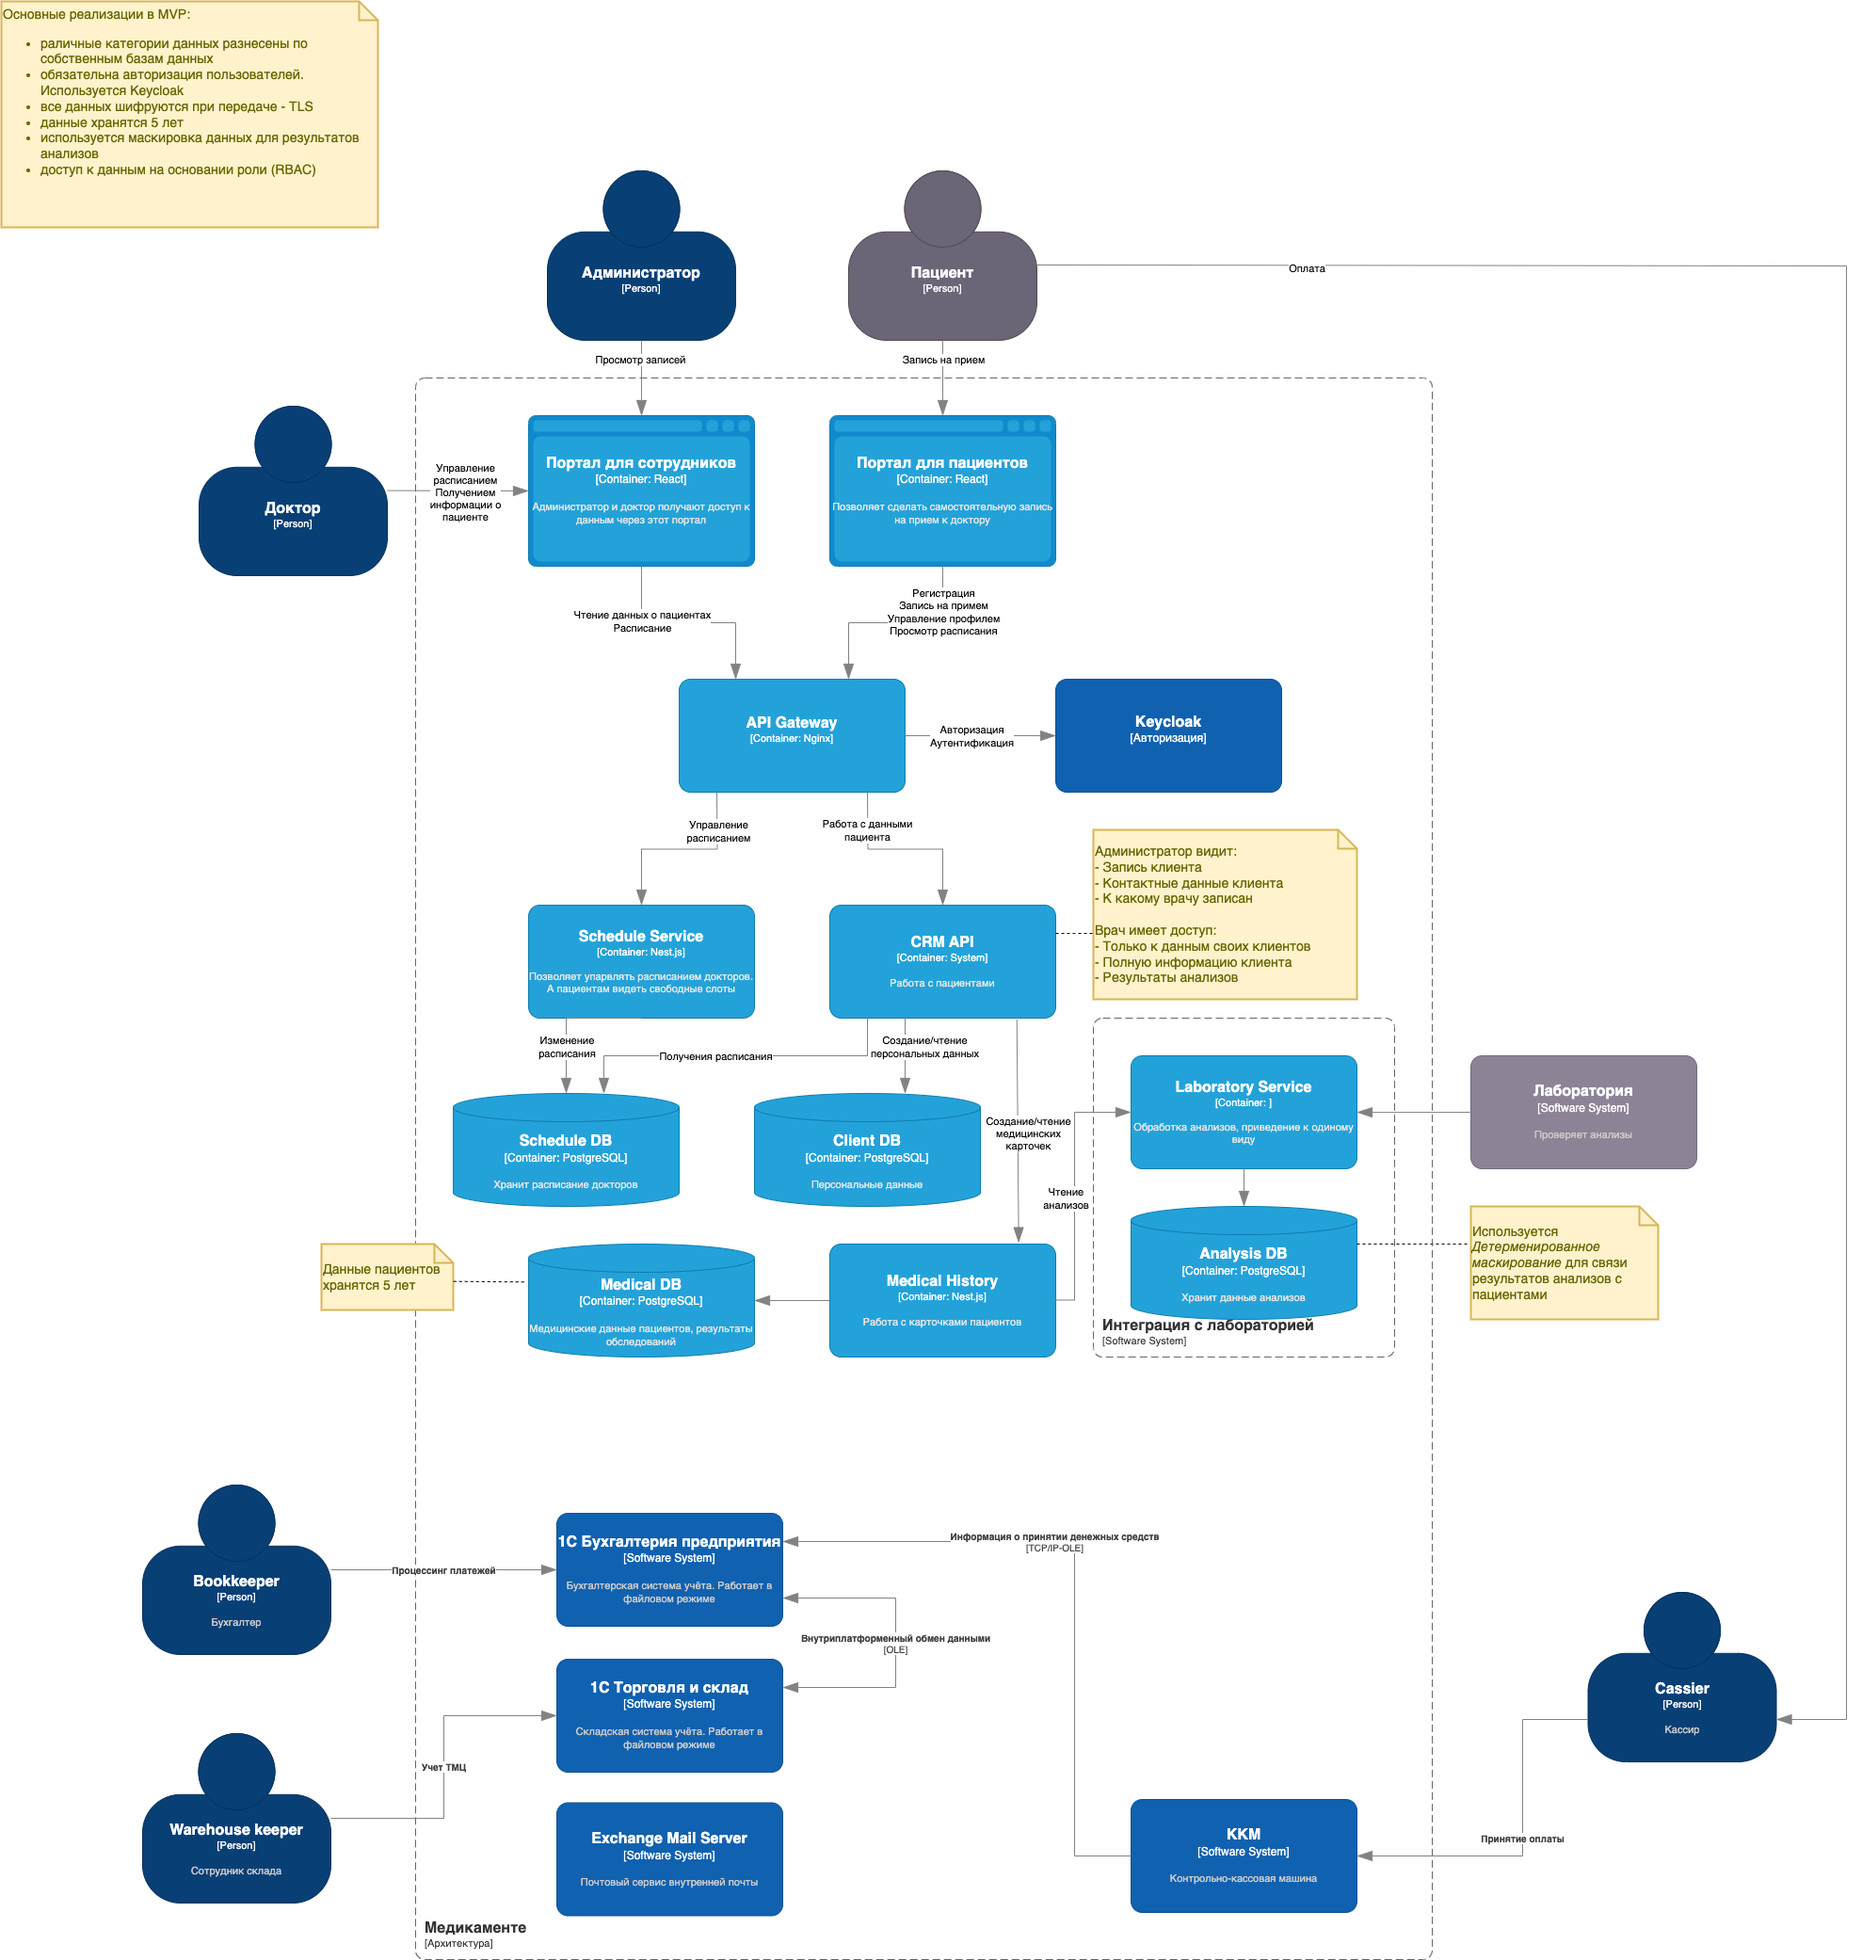
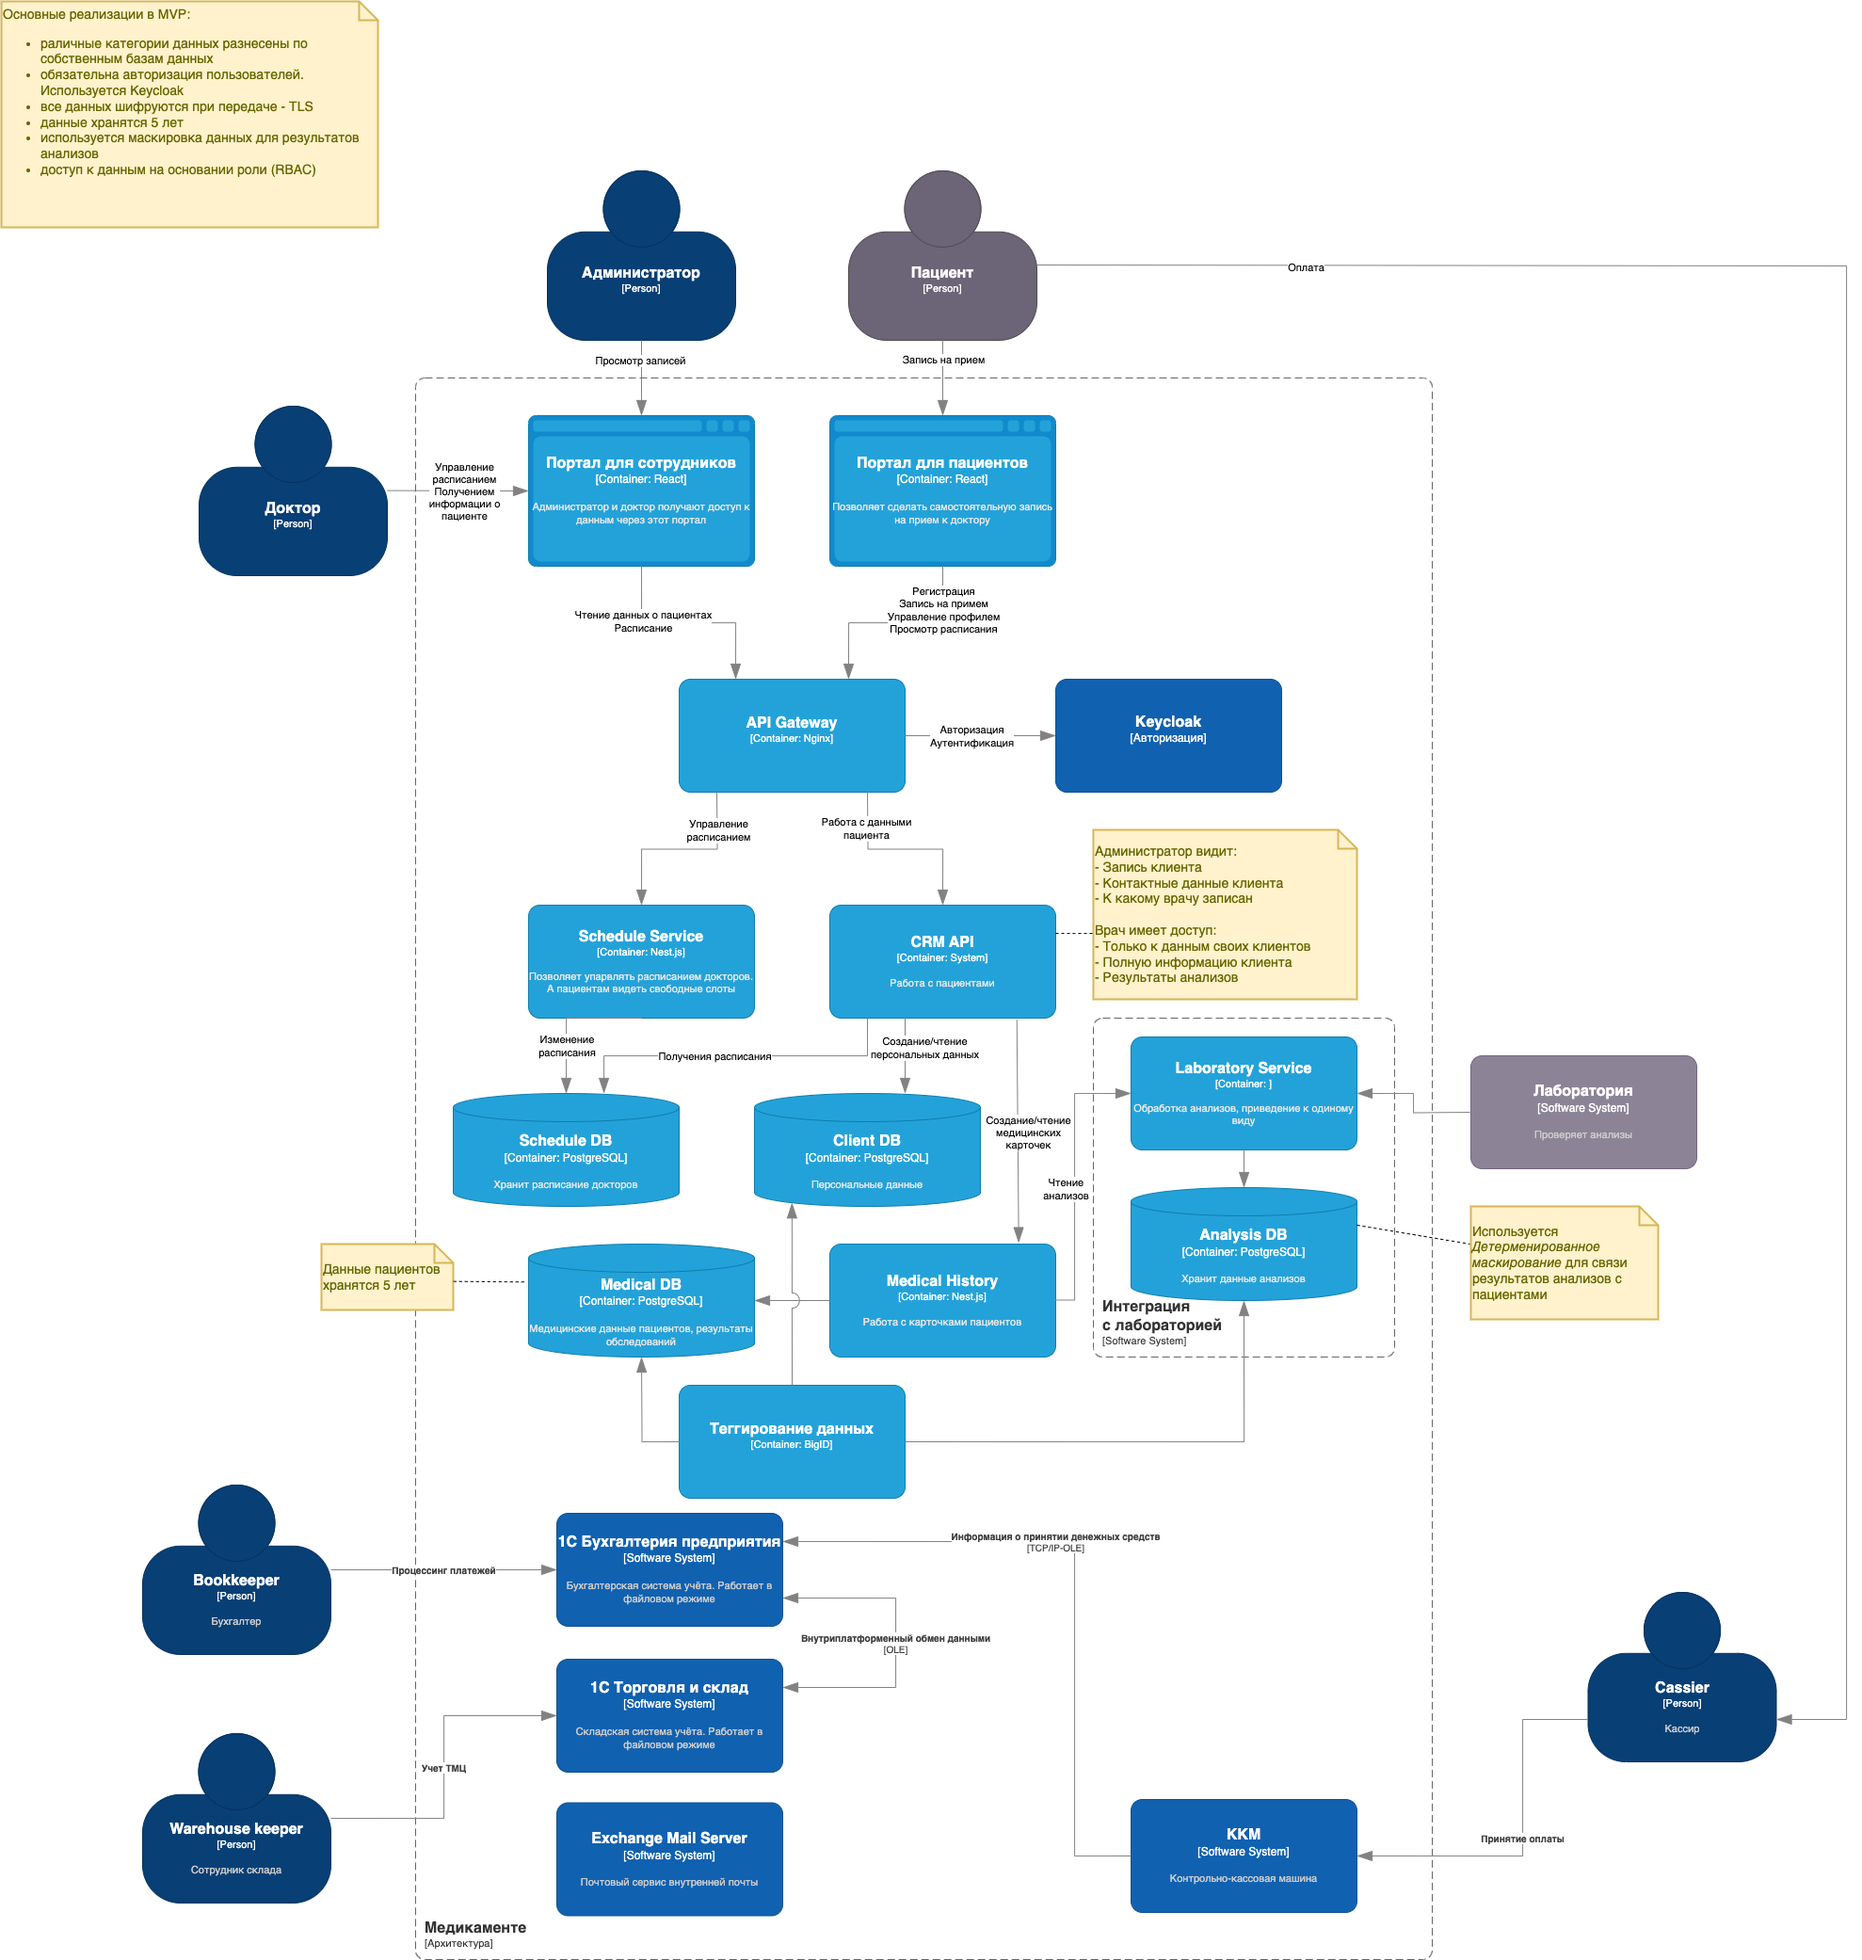
pr fixes

diff --git a/Exc1/README.md b/Exc1/README.md
@@ -6,7 +6,7 @@
 
 ## Проблемные зоны
 
-1. **Заполнение данных**. Все данные вносятся и обрабатываются сотрудниками в ручном режиме в фалы. Высок риск сделать ошибку, сохранить что-то не туда или вообще потерять.
+1. **Заполнение данных**. Все данные вносятся и обрабатываются сотрудниками в ручном режиме в файлы. Высок риск сделать ошибку, сохранить что-то не туда.
 
 2. **Доступ к данным**. Все файлы хранятся на общем диске. Нет никакой защиты, нет ролей. Любой пользователь системы может просмотреть любые данные пациента.
 
@@ -15,6 +15,8 @@
 4. **Отсутствие аудита действий**. Потоки данных никак не контролируются.
 
 5. **Доменна аутентификация**. Кроме доменной аутентификации, со стороны систем обработки нет ограничений на доступ к данным.
+
+6. **Резервирование**. Данные не резервируются, их можно потерять. Особенно учитывая тот факт, что доступ имеют все и обработка всех данных делается в ручную.
 
 
 ## Улучшения
